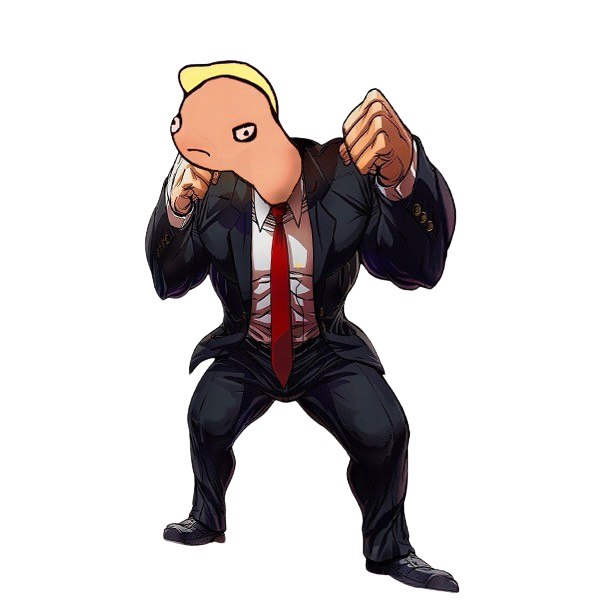
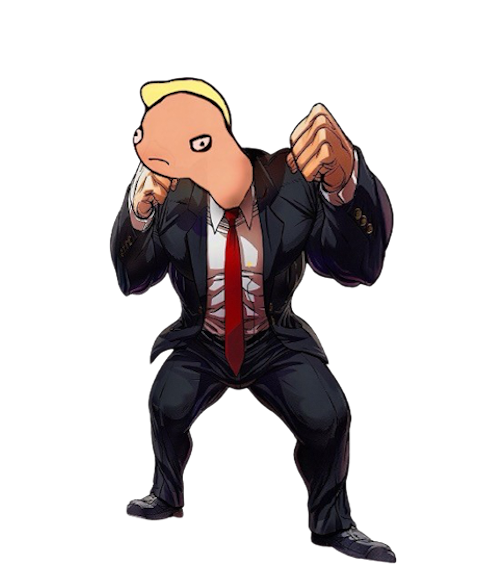
updayes

Changed region(s): [[0.2169, 0.0899, 0.8368, 1.0]]

diff --git a/src/VoteComponent.tsx b/src/VoteComponent.tsx
@@ -22,7 +22,7 @@ const formatNumberWithCommas = (number) => {
   return new Intl.NumberFormat('en-US').format(number);
 };
 
-const VoteComponent = () => {
+const VoteComponent = ({ candidate, setCandidate, timeLength, setTimeLength }) => {
   const { connected, publicKey } = useWallet();
   const wallet = useAnchorWallet();
   const { connection } = useConnection();
@@ -39,8 +39,7 @@ const VoteComponent = () => {
   const [voteAccount, setVoteAccount] = useState(null);
   const [tokenBalance, setTokenBalance] = useState(0);
   const [amount, setAmount] = useState(5000);
-  const [candidate, setCandidate] = useState('tremp');
-  const [timeLength, setTimeLength] = useState('1 day');
+
   const [countdown, setCountdown] = useState(0);
 
   const provider = useMemo(() => new AnchorProvider(connection, wallet, { commitment: 'processed' }), [connection, wallet]);
@@ -255,21 +254,21 @@ const VoteComponent = () => {
   if (error) {
     return <p>Error: {error.message}</p>;
   }
-
+/*
   if (tokenBalance < 5000 && (!voteInfoData || !voteInfoData.is_voted)) {
     return (
       <div className="vote-container">
         <p>You need at least 5000 vote tokens to place a vote.</p>
       </div>
     );
-  }
+  }*/
 
   if (voteInfoData && voteInfoData.is_voted) {
     return (
       <div className="vote-container">
         <h2>Your Vote Is Sealed</h2>
         <p>Vote Amount: {formatNumberWithCommas(voteInfoData.vote_amount)}</p>
-        <p>Voted for: {voteInfoData.wif_tremp ? 'Tremp' : 'Boden'}</p>
+        <p>Voted for: {voteInfoData.wif_tremp ? 'Denald Tremp' : 'Jeo Boden'}</p>
         {countdown > 0 ? (
           <div className="clock-countdown">
             <p>Time Left: {formatTime(countdown)}</p>
@@ -317,8 +316,8 @@ const VoteComponent = () => {
 
       <FormControl component="fieldset" className="form-control">
         <RadioGroup value={candidate} onChange={(e) => setCandidate(e.target.value)} className="radio-group">
-          <FormControlLabel value="boden" control={<Radio />} label="Boden" />
-          <FormControlLabel value="tremp" control={<Radio />} label="Tremp" />
+          <FormControlLabel value="boden" control={<Radio />} label="Jeo Boden" />
+          <FormControlLabel value="tremp" control={<Radio />} label="Denald Tremp" />
         </RadioGroup>
       </FormControl>
 

diff --git a/src/PresidentDisplay.tsx b/src/PresidentDisplay.tsx
@@ -1,4 +1,4 @@
-import React from 'react';
+import React, { useState, useEffect } from 'react';
 import './PresidentDisplay.css'; // Assuming you have CSS for PresidentDisplay
 
 const formatNumberWithCommas = (number) => {
@@ -6,21 +6,33 @@ const formatNumberWithCommas = (number) => {
 };
 
 const PresidentDisplay = ({ imageSrc, podiumImageSrc, isSelected, totalVotes, presidentTitle, presidentLink }) => {
- 
+  const [playExplosion, setPlayExplosion] = useState(false);
+
+  useEffect(() => {
+    if (isSelected) {
+      setPlayExplosion(true);
+      setTimeout(() => {
+        setPlayExplosion(false);
+      }, 570); // Adjust the timeout to match the duration of your explosion GIF
+    }
+  }, [isSelected]);
 
   return (
-    <div className="president-display">
+    <div className={`president-display ${isSelected ? 'selected' : ''}`}>
       <a href={presidentLink}>
         <div className="president-info">
           <p className="president-title">{presidentTitle}</p>
         </div>
         <div className="image-overlay">
           <img className="president-image" src={imageSrc} alt="Candidate" />
-          <div className={`podium-overlay ${isSelected ? 'tremp' : 'boden'}`}>
+          <div className="podium-overlay">
+            {playExplosion && (
+              <img className="explosion-gif" src="test/explosion.gif" alt="Explosion" />
+            )}
             <img className="podium-image" src={podiumImageSrc} alt="Podium" />
           </div>
         </div>
-        <div className="total-votes">
+        <div className="global-total-votes">
           <p>Votes: {formatNumberWithCommas(totalVotes)}</p>
         </div>
       </a>

diff --git a/src/App.tsx b/src/App.tsx
@@ -31,7 +31,7 @@ const App = () => {
 
     const wallets = useMemo(() => [new UnsafeBurnerWalletAdapter()], [network]);
 
-    const [amount, setAmount] = useState(5000);
+
     const [candidate, setCandidate] = useState("tremp");
     const [timeLength, setTimeLength] = useState("1 day");
     const [voteData, setVoteData] = useState(null);
@@ -98,14 +98,14 @@ const App = () => {
                     <WalletMultiButton />
                     <div className="app-container">
                         <img src="/test/header.png" alt="Header" className="header-image" />
+                
                         <div className="horizontal-layout">
                             <PresidentDisplay imageSrc={bodenImage} isSelected={candidate === 'boden'} totalVotes={boden} presidentTitle={"Jeo Boden"} podiumImageSrc={"/test/podium.png"} presidentLink={"https://www.boden4pres.com/"} />
+
                             <VoteBar timeLength={timeLength} candidate={candidate} trempAmount={tremp} bodenAmount={boden} />
                             <PresidentDisplay imageSrc={trempImage} isSelected={candidate === 'tremp'} totalVotes={tremp} presidentTitle={"Doland Tremp"} podiumImageSrc={"/test/podium2.png"} presidentLink={"https://www.tremp.xyz/"} />
                         </div>
                         <VoteComponent
-                            amount={amount}
-                            setAmount={setAmount}
                             candidate={candidate}
                             setCandidate={setCandidate}
                             timeLength={timeLength}

diff --git a/src/PresidentDisplay.css b/src/PresidentDisplay.css
@@ -15,8 +15,7 @@
 
 .podium-overlay {
   position: absolute;
-  top: 20px; /* Adjust top position */
-  left: 0; /* Default left position */
+  top: 15px; /* Adjust top position *//* Default left position */
   display: flex;
   justify-content: center;
   align-items: flex-end; /* Align podiums to bottom of president image */
@@ -24,17 +23,10 @@
   height: 100%; /* Ensure podium overlay covers the entire president image */
 }
 
-.podium-overlay.tremp {
-  left: -35px; /* Adjust left position for tremp */
-  bottom: 15px;
-}
 
-.podium-overlay.boden {
-  left: 36px; /* Adjust left position for boden */
-}
 
 .podium-image {
-  width: 100%;
+  width: 36%;
   max-width: 220px; /* Adjust size as needed */
 }
 
@@ -45,11 +37,25 @@
 .president-title {
   font-weight: bold;
   font-size: 20px; /* Adjust font size */
-  text-decoration: underline;
 }
 
 .total-votes {
   font-size: 18px;
   color: black;
-  
+  position: relative;
+  top:15px;
+
+}
+
+.president-display.lower-opacity {
+  opacity: 0.5; /* Adjust the opacity value as needed */
+}
+
+.explosion-gif {
+  position: absolute; /* Position absolutely to not affect layout */
+  left: 0;
+  bottom: 10px;
+  width: 100%; /* Ensure it covers the entire podium overlay */
+  height: 100%; /* Ensure it covers the entire podium overlay */
+  z-index: -1; /* Ensure it appears above other content in the podium overlay */
 }

diff --git a/src/App.css b/src/App.css
@@ -1,3 +1,10 @@
+.bebas-neue-regular {
+  font-family: "Bebas Neue", sans-serif;
+  font-weight: 400;
+  font-style: normal;
+}
+
+
 body {
   background-color: #4985EC;
   margin: 0;
@@ -16,7 +23,13 @@ html {
   z-index: 1;
   min-height: 100vh; 
   width: 100%;/* Ensure the container covers the full viewport height */
+
 }
+
+.root {
+  z-index: 20;
+}
+
 
 .app-container::before {
   content: '';
@@ -25,6 +38,7 @@ html {
   bottom: 0;
   left: 20.33%;
   right: 20.33%;
+  background-color: greenyellow;
 
 
   background-color: snow; /* Color of the strip */
@@ -41,8 +55,9 @@ html {
   margin-left: auto;
   margin-right: auto;
   position: relative;
-  z-index: 1;
+  z-index: 0;
 }
+
 
 .treasury-title {
   position: absolute;
@@ -50,7 +65,7 @@ html {
   left: 50.7%;
   transform: translate(-50%, -50%);
   font-size: 2rem;
-  color: white;
+  color: rgb(255, 255, 255);
   z-index: 2; /* Ensure it's above other elements */
 }
 

diff --git a/src/VoteBar.tsx b/src/VoteBar.tsx
@@ -1,6 +1,8 @@
 import React from "react";
 import "./votebar.css";
-
+const formatNumberWithCommas = (number) => {
+  return new Intl.NumberFormat('en-US').format(number);
+};
 const VoteBar = ({ trempAmount, bodenAmount }) => {
   const totalVotes = trempAmount + bodenAmount;
   const trempPercentage = Math.round((trempAmount / totalVotes) * 100);
@@ -27,6 +29,9 @@ const VoteBar = ({ trempAmount, bodenAmount }) => {
             <div className="vote-bar-percentage">{trempPercentage}%</div>
           </div>
         </div>
+      </div>
+      <div className="total-global-votes">
+        Total Votes Locked: {formatNumberWithCommas(totalVotes)}
       </div>
     </div>
   );

diff --git a/index.html b/index.html
@@ -4,6 +4,9 @@
     <meta charset="UTF-8" />
     <meta name="viewport" content="width=device-width, initial-scale=1.0" />
     <title>Vote Program Beta</title>
+    <link rel="preconnect" href="https://fonts.googleapis.com">
+<link rel="preconnect" href="https://fonts.gstatic.com" crossorigin>
+<link href="https://fonts.googleapis.com/css2?family=Bebas+Neue&display=swap" rel="stylesheet">
   </head>
   <body>
     <div id="root"></div>

diff --git a/src/votebar.css b/src/votebar.css
@@ -20,6 +20,15 @@
   font-weight: bold;
 }
 
+.total-global-votes {
+  position: absolute;
+  top: 60px; /* Adjust as needed to position above the vote bars */
+  left: 0;
+  right: 0;
+  font-size: 18px; /* Adjust font size as needed */
+  font-weight: bold;
+}
+
 .vote-bar-wrapper {
   position: relative;
   display: flex;

diff --git a/src/VoteComponent.css b/src/VoteComponent.css
@@ -60,3 +60,8 @@
     padding: 10px;
   }
 }
+
+.form-control {
+  max-height: 200px; /* Set a maximum height to enable scrolling */
+  overflow-y: auto; /* Enable vertical scrolling */
+}
